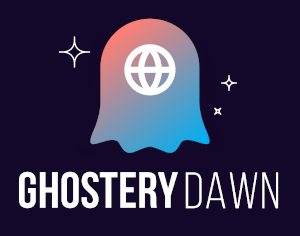
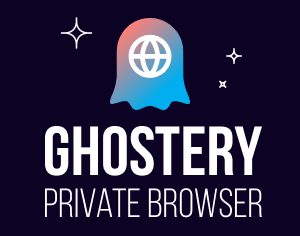
Update branding and translations

diff --git a/fern/patches/ghostery-branding.js b/fern/patches/ghostery-branding.js
@@ -24,8 +24,9 @@ const brandingPathComponents = ["browser", "branding", "ghostery"];
 const windowsInstallerPathComponents = ["other-licenses", "7zstub", "firefox", "7zSD.Win32.sfx"];
 const devToolsIconsPathComponents = ["devtools", "client", "themes", "images"];
 const privateBrowsingIconPaths = [
-  ["browser", "themes","shared","icons", "indicator-private-browsing.svg"],
-  ["browser", "themes","shared","icons","privateBrowsing.svg"],
+  ["browser", "themes", "shared", "icons", "indicator-private-browsing.svg"],
+  ["toolkit", "themes", "shared", "icons", "indicator-private-browsing.svg"],
+  ["browser", "themes", "shared", "icons", "privateBrowsing.svg"],
   ["browser", "themes", "shared", "privatebrowsing", "favicon.svg"],
   ["browser", "themes", "shared", "privatebrowsing", "private-browsing.svg"]
 ];
@@ -76,12 +77,13 @@ module.exports = () => ({
     await copy(
       ["brands", "ghostery", "branding", "content", "private-ghosty-logo-white.svg"],
       ["browser", "themes", "shared", "icons", "indicator-private-browsing.svg"],
+      ["toolkit", "themes", "shared", "icons", "indicator-private-browsing.svg"],
       ["browser", "themes", "shared", "privatebrowsing", "private-browsing.svg"],
     );
     // context-fill ghosty private tab logo
     return copy(
       ["brands", "ghostery", "branding", "content", "private-ghosty-logo.svg"],
-      ["browser", "themes","shared","icons","privateBrowsing.svg"],
+      ["browser", "themes"," shared", "icons", "privateBrowsing.svg"],
       ["browser", "themes", "shared", "privatebrowsing", "favicon.svg"],
     );
   },

diff --git a/brands/ghostery/branding/pref/firefox-branding.js b/brands/ghostery/branding/pref/firefox-branding.js
@@ -15,7 +15,7 @@ pref("app.update.interval", 86400); // 24 hours
 pref("app.update.promptWaitTime", 86400);
 // URL user can browse to manually if for some reason all update installation
 // attempts fail.
-pref("app.update.url.manual", "https://www.ghostery.com/dawn/");
+pref("app.update.url.manual", "https://www.ghostery.com/private-browser/");
 // A default value for the "More information about this update" link
 // supplied in the "An update is available" page of the update wizard.
 pref("app.update.url.details", "https://www.ghostery.com/%LOCALE%/browser/notes");
@@ -51,7 +51,7 @@ pref("services.settings.server", "https://get.ghosterybrowser.com/settings/v1");
 pref("browser.contentblocking.category", "custom");
 pref("privacy.trackingprotection.enabled", false);
 pref("privacy.trackingprotection.pbmode.enabled", false);
-pref("privacy.purge_trackers.enabled", false); // Redirect Tracking Prevention; neutered since Dawn disables FF ETP
+pref("privacy.purge_trackers.enabled", false); // Redirect Tracking Prevention; neutered since Ghostery Private Browser disables FF ETP
 pref("privacy.trackingprotection.cryptomining.enabled", false);
 pref("privacy.trackingprotection.fingerprinting.enabled", false);
 pref("privacy.trackingprotection.socialtracking.enabled", false);

diff --git a/fern/patches/l10n.js b/fern/patches/l10n.js
@@ -120,7 +120,7 @@ module.exports = ({ locale = "en-US" }) => ({
         const contents = await fsExtra.readFile(filePath, "utf-8");
         return fsExtra.writeFile(
           filePath,
-          contents.replace(/Firefox/g, "Ghostery Dawn")
+          contents.replace(/Firefox/g, "Ghostery Private Browser")
         );
       })
     );

diff --git a/brands/ghostery/branding/content/aboutPrivateBrowsing.css b/brands/ghostery/branding/content/aboutPrivateBrowsing.css
@@ -7,7 +7,7 @@ html.private {
 
 .wordmark {
   background: url("chrome://branding/content/ghostery-wordmark-white.svg") no-repeat center center;
-  width: 231px;
+  width: 349px;
   height: 68px;
   position: absolute;
   bottom: 20px;
